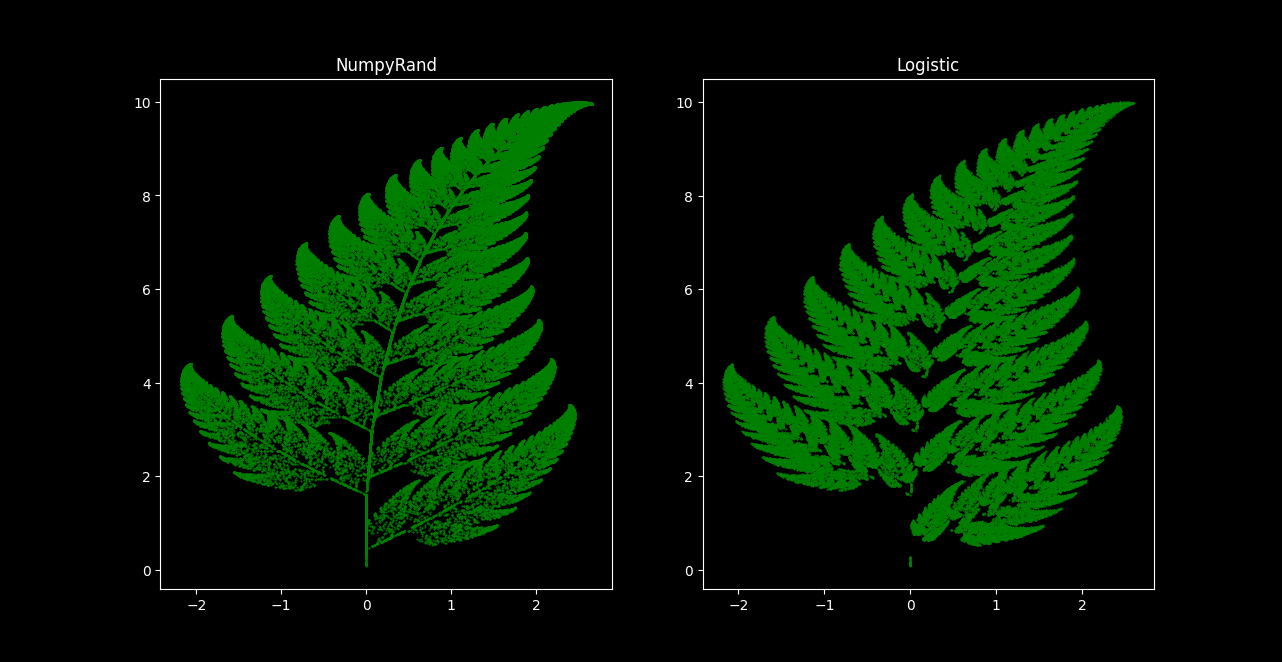
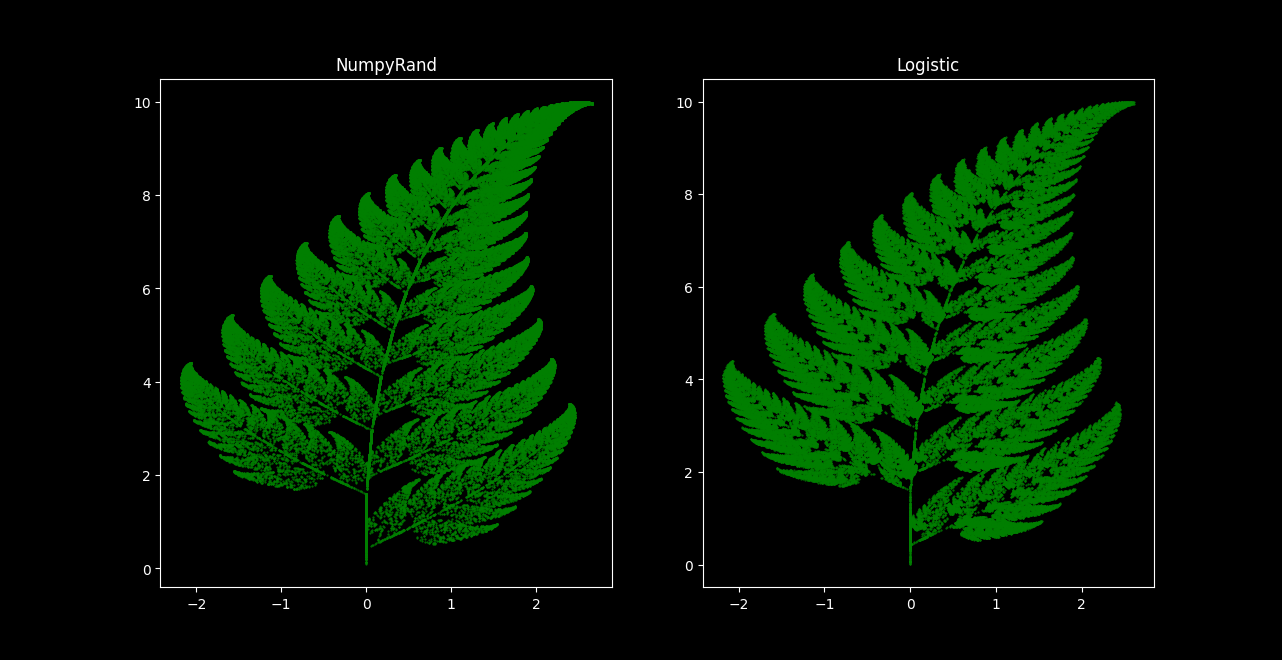
Fern

diff --git a/pseudo_random_gen.py b/pseudo_random_gen.py
@@ -19,8 +19,8 @@ def run(r, x, length):
 def linear_scale_r(val):
     return R_MIN + (R_MAX - R_MIN) * val
 def rnd(seed,num):
-    num = run(seed,0.5 * (num*1000%1+num*100%1), int(200 + 1000 * seed % 32))
-    seed = linear_scale_r(num)
+    num = run(seed,num*100*np.pi%1, int(100+1000 * seed % 13))
+    seed = linear_scale_r(np.cos(num**2*np.pi*5)%1)
     return seed, num
 
 def get_pnr(n):
